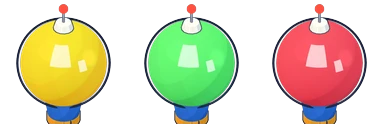
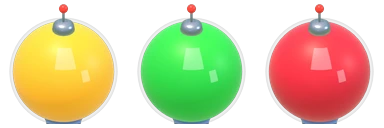
Storage towers rendered as real 3D: PBR metal, clear glass ball that grows each tier, no base plate (patch 198)
Claude-Session: https://claude.ai/code/session_01ENEEn6h54mwwofFLnqS8ZR

diff --git a/features/render3d/tank403/tank3d.html b/features/render3d/tank403/tank3d.html
@@ -1,106 +1,106 @@
 <!doctype html><html><body style="margin:0;background:transparent">
 <canvas id="c" width="320" height="712"></canvas>
 <script type="module">
-// 403: resource storage = "football" water tower (owner's reference photo): a tall blue column with orange
-// bands, flared finned foot, and a faceted ball on top whose round domes show the liquid inside
-// (Ore X gold, Ore Y green, Fluid Z red). The liquid level in the domes and in the sight glass on the
-// column shows how full the storage is. Taller with every tier. Rendered by render-tanks.cjs.
+// 403b: resource storage = "football" water tower (owner's reference photo), rendered as real 3D:
+// physically based painted metal, a clear transmissive glass ball with the liquid inside (Ore X gold,
+// Ore Y green, Fluid Z red), soft reflections from a studio environment and a cast shadow.
+// No separate base plate: the blue finned foot is the footprint. The glass ball grows with every tier.
 import * as T from '../three.js';
 const canvas=document.getElementById('c');
 const R=new T.WebGLRenderer({canvas,antialias:true,alpha:true,preserveDrawingBuffer:true});
 R.setClearColor(0,0);R.outputColorSpace=T.SRGBColorSpace;R.localClippingEnabled=true;
+R.toneMapping=T.NoToneMapping;R.shadowMap.enabled=true;R.shadowMap.type=T.PCFSoftShadowMap;
 const S=new T.Scene();
-const cam=new T.OrthographicCamera(-2.75,2.75,9.6,-2.65,0.1,100);cam.position.set(10,11.17,10);cam.lookAt(0,1.0,0);
-S.add(new T.HemisphereLight(0xfffaf0,0x5a78b0,0.8));
-const sun=new T.DirectionalLight(0xfff2dc,2.6);sun.position.set(-3,10,7);S.add(sun);
-const rim=new T.DirectionalLight(0xa8e6ff,0.9);rim.position.set(7,3,-5);S.add(rim);
-const g=new Uint8Array([70,140,215,255]);const ramp=new T.DataTexture(g,4,1,T.RedFormat);ramp.minFilter=ramp.magFilter=T.NearestFilter;ramp.needsUpdate=true;
-const M=(c,e=0)=>new T.MeshToonMaterial({color:c,gradientMap:ramp,emissive:e});
-const OUT=new T.MeshBasicMaterial({color:0x17213d,side:T.BackSide});
-function mesh(geo,mat,parent,ol=0.04){const m=new T.Mesh(geo,mat);parent.add(m);if(ol){const o=new T.Mesh(geo,OUT);o.scale.setScalar(1+ol);m.add(o);}return m;}
-function lathe(pts,seg=40){return new T.LatheGeometry(pts.map(p=>new T.Vector2(p[0],p[1])),seg);}
-function rbox(w,h,d,r){const s=new T.Shape(),x=-w/2+r,y=-h/2+r;s.moveTo(x,-h/2);s.lineTo(w/2-r,-h/2);s.quadraticCurveTo(w/2,-h/2,w/2,y);s.lineTo(w/2,h/2-r);s.quadraticCurveTo(w/2,h/2,w/2-r,h/2);s.lineTo(x,h/2);s.quadraticCurveTo(-w/2,h/2,-w/2,h/2-r);s.lineTo(-w/2,y);s.quadraticCurveTo(-w/2,-h/2,x,-h/2);
- const dd=Math.max(0.01,d-2*r*0.6);const geo=new T.ExtrudeGeometry(s,{depth:dd,bevelEnabled:true,bevelSize:r*0.6,bevelThickness:r*0.6,bevelSegments:3,curveSegments:6});geo.translate(0,0,-dd/2);geo.computeVertexNormals();return geo;}
-const LIQ={x:{c:0xffc400,hi:0xfff2a0,deep:0xe07a00},y:{c:0x3fdc4a,hi:0xc8ffb0,deep:0x1d9a3a},z:{c:0xf0283a,hi:0xffb0a8,deep:0xa50f22}};
-// tier: column height, ball radius, extras
-const TIERS=[{h:3.6,b:0.8,bands:1,ladder:0,lamp:1,gold:0},{h:4.1,b:0.86,bands:2,ladder:0,lamp:1,gold:0},{h:4.6,b:0.92,bands:2,ladder:1,lamp:1,gold:0},{h:5.1,b:0.98,bands:2,ladder:1,lamp:1,gold:1},{h:5.6,b:1.04,bands:3,ladder:1,lamp:2,gold:1}];
-const PHI=(1+Math.sqrt(5))/2;
-const FACES=[[0,1,PHI],[0,1,-PHI],[0,-1,PHI],[0,-1,-PHI],[1,PHI,0],[1,-PHI,0],[-1,PHI,0],[-1,-PHI,0],[PHI,0,1],[PHI,0,-1],[-PHI,0,1],[-PHI,0,-1]].map(v=>new T.Vector3(...v).normalize());
-const level=new T.Plane(new T.Vector3(0,-1,0),0); // keeps y < level
+const VIEW={l:-2.75,r:2.75,t:9.6,b:-2.65};
+const cam=new T.OrthographicCamera(VIEW.l,VIEW.r,VIEW.t,VIEW.b,0.1,100);cam.position.set(10,11.17,10);cam.lookAt(0,1.0,0);
+// studio environment for reflections: soft sky dome with a few bright panels
+{const env=new T.Scene();const dome=new T.Mesh(new T.SphereGeometry(20,32,16),new T.MeshBasicMaterial({side:T.BackSide,vertexColors:true}));
+ const col=[],pos=dome.geometry.attributes.position;for(let i=0;i<pos.count;i++){const y=pos.getY(i)/20;const c=new T.Color().setHSL(0.58,0.35,0.35+0.45*Math.max(0,y));if(y<0)c.setRGB(0.32,0.42,0.28);col.push(c.r,c.g,c.b);}
+ dome.geometry.setAttribute('color',new T.Float32BufferAttribute(col,3));env.add(dome);
+ for(const [x,y,z,s] of [[-8,10,6,6],[9,6,-6,4],[0,14,0,8],[6,3,9,3]]){const p=new T.Mesh(new T.PlaneGeometry(s,s),new T.MeshBasicMaterial({color:0xffffff,side:T.DoubleSide}));p.position.set(x,y,z);p.lookAt(0,0,0);env.add(p);}
+ const pm=new T.PMREMGenerator(R);S.environment=pm.fromScene(env,0.02).texture;}
+S.add(new T.HemisphereLight(0xfff6e8,0x4a6a3a,0.6));
+const sun=new T.DirectionalLight(0xfff0d6,2.4);sun.position.set(-2,14,3);sun.castShadow=true;sun.shadow.mapSize.set(2048,2048);
+Object.assign(sun.shadow.camera,{left:-4,right:4,top:9,bottom:-4,near:0.5,far:40});sun.shadow.bias=-0.0004;sun.shadow.radius=4;S.add(sun);
+const rim=new T.DirectionalLight(0xbfe8ff,0.8);rim.position.set(7,4,-6);S.add(rim);
+const ground=new T.Mesh(new T.PlaneGeometry(14,14),new T.ShadowMaterial({opacity:0.32}));ground.rotation.x=-Math.PI/2;ground.receiveShadow=true;S.add(ground);
+const paint=(c,r=0.38,m=0.25)=>new T.MeshStandardMaterial({color:c,roughness:r,metalness:m});
+function mesh(geo,mat,parent){const m=new T.Mesh(geo,mat);m.castShadow=true;m.receiveShadow=true;parent.add(m);return m;}
+function lathe(pts,seg=48){return new T.LatheGeometry(pts.map(p=>new T.Vector2(p[0],p[1])),seg);}
+const LIQ={x:{c:0xffb000,e:0xb86a00},y:{c:0x10c02a,e:0x067a16},z:{c:0xe00a22,e:0x8a0010}};
+// tier: column height, glass ball radius (grows a lot), extras
+const TIERS=[{h:3.2,b:0.75,bands:1,ladder:0,gold:0,ant:0},{h:3.5,b:0.9,bands:2,ladder:0,gold:0,ant:0},{h:3.8,b:1.05,bands:2,ladder:1,gold:0,ant:0},{h:4.1,b:1.2,bands:2,ladder:1,gold:1,ant:1},{h:4.4,b:1.35,bands:3,ladder:1,gold:1,ant:2}];
+const level=new T.Plane(new T.Vector3(0,-1,0),0);
 let state=null;
 function build(kind,t){
  const P=TIERS[t],L=LIQ[kind];if(state)S.remove(state.root);
- const WHITE=M(0xf4f4f1),BLUE=M(0x2a6fe0),NAVY=M(0x1f3270),ORANGE=M(0xf59a1c),STEEL=M(0x8d97a8),GOLD=M(0xf2c75e),BAND=P.gold?GOLD:ORANGE;
- const LQ=new T.MeshToonMaterial({color:L.c,gradientMap:ramp,emissive:L.deep,emissiveIntensity:0.75,clippingPlanes:[level]});
- const EMPTY=new T.MeshPhongMaterial({color:0xcfe6f7,shininess:90,specular:0xffffff,emissive:0x2b4568,emissiveIntensity:0.35});
- const SHINE=new T.MeshBasicMaterial({color:0xffffff,transparent:true,opacity:0.7});
+ const BLUE=paint(0x1f63d8,0.32,0.3),BLUE2=paint(0x1850b8,0.4,0.3),ORANGE=paint(0xf5911c,0.35,0.2),STEEL=paint(0xb9c2cf,0.25,0.85),GOLD=paint(0xf3c35a,0.22,0.9),BAND=P.gold?GOLD:ORANGE;
+ const LQ=new T.MeshPhysicalMaterial({color:L.c,roughness:0.45,metalness:0,emissive:L.e,emissiveIntensity:0.9,envMapIntensity:0.12,clearcoat:0,clippingPlanes:[level]});
+ const GLASS=new T.MeshPhysicalMaterial({color:0xf2fbff,roughness:0.02,metalness:0,clearcoat:1,clearcoatRoughness:0.02,specularIntensity:1,envMapIntensity:2.5,transparent:true,opacity:0.07,depthWrite:false});
  const root=new T.Group();S.add(root);
- // octagonal NOVA base like the other storages
- const base=new T.Group();root.add(base);
- mesh(lathe([[0,0],[1.55,0],[1.59,0.1],[1.51,0.28],[0,0.28]],8),NAVY,base,0.02).rotation.y=Math.PI/8;
- mesh(lathe([[0,0.25],[1.42,0.25],[1.44,0.31],[1.36,0.35],[0,0.35]],8),WHITE,base,0.02).rotation.y=Math.PI/8;
- for(let i=0;i<8;i++){const a=i/8*Math.PI*2+Math.PI/4;const c=mesh(rbox(0.28,0.24,0.24,0.06),i%2?ORANGE:BLUE,base,0.06);c.position.set(Math.cos(a)*1.42,0.17,Math.sin(a)*1.42);c.rotation.y=-a;}
- const tower=new T.Group();root.add(tower);
- const y0=0.35,H=P.h,rc=0.3,top=y0+H;
- // flared foot with fins (photo: wide skirt and triangular gussets)
- mesh(lathe([[0,y0],[0.72,y0],[0.68,y0+0.1],[0.45,y0+0.4],[rc+0.03,y0+0.95],[0,y0+0.95]]),BLUE,tower,0.025);
- for(let i=0;i<6;i++){const a=i/6*Math.PI*2+0.3;const fin=new T.Shape();fin.moveTo(0,0);fin.lineTo(0.62,0);fin.lineTo(0,0.85);fin.closePath();
-  const geo=new T.ExtrudeGeometry(fin,{depth:0.07,bevelEnabled:false});geo.translate(0,0,-0.035);const f=mesh(geo,BLUE,tower,0.05);f.position.set(Math.cos(a)*(rc-0.02),y0,Math.sin(a)*(rc-0.02));f.rotation.y=-a;}
- // manhole and control box at the foot
- const mh=mesh(new T.CylinderGeometry(0.2,0.2,0.08,20),BLUE,tower,0.08);mh.position.set(0.42,y0+0.36,0.42);mh.lookAt(5,y0+0.36,5);mh.rotateX(Math.PI/2);
- const box=mesh(rbox(0.22,0.3,0.12,0.03),STEEL,tower,0.08);box.position.set(rc+0.08,y0+1.0,-0.15);box.rotation.y=0.6;
- // shaft
- mesh(new T.CylinderGeometry(rc*0.9,rc,H,28),BLUE,tower,0.03).position.y=y0+H/2;
- const bandYs=[y0+0.95,top-0.55,y0+H*0.55].slice(0,P.bands);
- for(const by of bandYs){const b=mesh(new T.CylinderGeometry(rc+0.03,rc+0.03,0.16,28),BAND,tower,0.06);b.position.y=by;}
- // sight glass on the column: liquid level
- const gx=new T.Group();gx.position.set(Math.cos(0.55)*(rc+0.06),0,Math.sin(0.55)*(rc+0.06));tower.add(gx);
- const gy0=y0+1.15,gh=H-1.8;
- mesh(new T.CylinderGeometry(0.07,0.07,gh+0.1,10),WHITE,gx,0.1).position.y=gy0+gh/2;
- const gEmpty=new T.Mesh(new T.CylinderGeometry(0.05,0.05,gh,10),EMPTY);gEmpty.position.set(0.012,gy0+gh/2,0.012);gx.add(gEmpty);
- const gLiq=new T.Mesh(new T.CylinderGeometry(0.052,0.052,1,10),new T.MeshToonMaterial({color:L.c,gradientMap:ramp,emissive:L.deep,emissiveIntensity:0.75}));gLiq.position.x=0.012;gLiq.position.z=0.012;gx.add(gLiq);
- if(P.ladder){const lz=new T.Group();lz.position.set(-Math.cos(0.4)*(rc+0.1),0,-Math.sin(0.4)*(rc+0.1));lz.rotation.y=0.4;tower.add(lz);
-  for(const s of [-0.09,0.09])mesh(new T.CylinderGeometry(0.02,0.02,H-1.2,6),STEEL,lz,0.15).position.set(0,y0+0.9+(H-1.2)/2,s);
-  for(let k=0;k<Math.floor((H-1.2)/0.22);k++){const rung=mesh(new T.CylinderGeometry(0.015,0.015,0.18,6),STEEL,lz,0);rung.position.set(0,y0+1.0+k*0.22,0);rung.rotation.x=Math.PI/2;}}
- // neck flaring into the ball
- const bc=top+P.b*0.82; // ball centre
- mesh(lathe([[0,top-0.6],[rc,top-0.6],[rc+0.06,top-0.25],[P.b*0.42,top+0.02],[P.b*0.36,top+0.1],[0,top+0.1]]),BLUE,tower,0.025);
- // clear glass ball on top; the coloured liquid inside shows how full the storage is
- const ball=new T.Group();ball.position.y=bc;tower.add(ball);
- const GLASS=new T.MeshPhongMaterial({color:0xe8f6ff,transparent:true,opacity:0.2,shininess:140,specular:0xffffff,depthWrite:false});
- const lr=P.b*0.95;
- const liq=new T.Mesh(new T.SphereGeometry(lr,40,28),LQ);ball.add(liq);
- const surf=new T.Mesh(new T.CircleGeometry(1,40),new T.MeshBasicMaterial({color:L.hi}));surf.rotation.x=-Math.PI/2;ball.add(surf);
- const glass=new T.Mesh(new T.SphereGeometry(P.b,40,28),GLASS);glass.renderOrder=2;ball.add(glass);
- // outline only around the silhouette (a solid back-face outline would darken the clear glass)
- const rimO=new T.Mesh(new T.TorusGeometry(P.b*1.01,0.025,8,64),new T.MeshBasicMaterial({color:0x17213d}));rimO.lookAt(cam.position.clone().sub(new T.Vector3(0,bc,0)));ball.add(rimO);
- // glossy highlights on the glass
- const hl=new T.Mesh(new T.SphereGeometry(P.b*1.002,24,16,2.0,0.55,0.55,0.5),SHINE);hl.renderOrder=3;ball.add(hl);
- const hl2=new T.Mesh(new T.SphereGeometry(P.b*1.002,16,10,2.75,0.2,0.95,0.25),SHINE);hl2.renderOrder=3;ball.add(hl2);
- // top hatch, lamp, ring
+ const y0=0,H=P.h,rc=0.3,top=y0+H;
+ // flared finned foot = the whole footprint (sized like the blue skirt only)
+ mesh(lathe([[0,y0],[0.82,y0],[0.84,y0+0.06],[0.78,y0+0.14],[0.5,y0+0.45],[rc+0.03,y0+1.0],[0,y0+1.0]]),BLUE,root);
+ const ring0=mesh(new T.TorusGeometry(0.8,0.05,12,48),BAND,root);ring0.rotation.x=Math.PI/2;ring0.position.y=y0+0.09;
+ for(let i=0;i<6;i++){const a=i/6*Math.PI*2+0.3;const fin=new T.Shape();fin.moveTo(0,0);fin.lineTo(0.7,0);fin.quadraticCurveTo(0.25,0.25,0,0.95);fin.closePath();
+  const geo=new T.ExtrudeGeometry(fin,{depth:0.07,bevelEnabled:true,bevelSize:0.015,bevelThickness:0.015,bevelSegments:2});geo.translate(0,0,-0.035);const f=mesh(geo,BLUE2,root);f.position.set(Math.cos(a)*(rc-0.02),y0,Math.sin(a)*(rc-0.02));f.rotation.y=-a;}
+ for(let i=0;i<12;i++){const a=i/12*Math.PI*2;mesh(new T.CylinderGeometry(0.035,0.035,0.05,8),STEEL,root).position.set(Math.cos(a)*0.72,y0+0.16,Math.sin(a)*0.72);}
+ const mh=mesh(new T.CylinderGeometry(0.2,0.2,0.07,24),BLUE2,root);mh.position.set(0.36,y0+0.42,0.36);mh.lookAt(5,y0+0.42,5);mh.rotateX(Math.PI/2);
+ const bx=mesh(new T.BoxGeometry(0.22,0.3,0.12),STEEL,root);bx.position.set(rc+0.07,y0+1.25,-0.18);bx.rotation.y=0.6;
+ // column
+ mesh(new T.CylinderGeometry(rc*0.9,rc,H,40),BLUE,root).position.y=y0+H/2;
+ for(const by of [y0+1.1,top-0.55,y0+H*0.58].slice(0,P.bands)){const b=mesh(new T.CylinderGeometry(rc+0.025,rc+0.025,0.16,40),BAND,root);b.position.y=by;}
+ // sight glass
+ const gx=new T.Group();gx.position.set(Math.cos(0.55)*(rc+0.05),0,Math.sin(0.55)*(rc+0.05));root.add(gx);
+ const gy0=y0+1.3,gh=H-1.95;
+ mesh(new T.CylinderGeometry(0.065,0.065,gh+0.1,12),STEEL,gx).position.y=gy0+gh/2;
+ const gLiq=mesh(new T.CylinderGeometry(0.05,0.05,1,12),new T.MeshStandardMaterial({color:L.c,emissive:L.e,emissiveIntensity:0.6,roughness:0.2}),gx);gLiq.position.set(0.02,0,0.02);
+ if(P.ladder){const lz=new T.Group();lz.position.set(-Math.cos(0.4)*(rc+0.09),0,-Math.sin(0.4)*(rc+0.09));lz.rotation.y=0.4;root.add(lz);
+  for(const s of [-0.09,0.09])mesh(new T.CylinderGeometry(0.018,0.018,H-1.3,8),STEEL,lz).position.set(0,y0+1.0+(H-1.3)/2,s);
+  for(let k=0;k<Math.floor((H-1.3)/0.22);k++){const rung=mesh(new T.CylinderGeometry(0.014,0.014,0.18,6),STEEL,lz);rung.position.set(0,y0+1.1+k*0.22,0);rung.rotation.x=Math.PI/2;}}
+ // collar cup holding the ball
+ const bc=top+P.b*0.9;
+ mesh(lathe([[0,top-0.5],[rc,top-0.5],[rc+0.05,top-0.2],[P.b*0.42,top+0.06],[P.b*0.4,top+0.14],[P.b*0.3,top+0.14],[0,top+0.1]]),BLUE,root);
+ const cr=mesh(new T.TorusGeometry(P.b*0.41,0.04,10,40),BAND,root);cr.rotation.x=Math.PI/2;cr.position.y=top+0.1;
+ // glass ball + liquid
+ const ball=new T.Group();ball.position.y=bc;root.add(ball);
+ const lr=P.b*0.94;
+ const liq=new T.Mesh(new T.SphereGeometry(lr,56,40),LQ);ball.add(liq);
+ const cap=new T.Mesh(new T.CircleGeometry(1,48),new T.MeshPhysicalMaterial({color:L.c,emissive:L.e,emissiveIntensity:1.0,roughness:0.45,envMapIntensity:0.12}));cap.rotation.x=-Math.PI/2;ball.add(cap);
+ const glass=new T.Mesh(new T.SphereGeometry(P.b,64,48),GLASS);glass.renderOrder=2;ball.add(glass);
+ // glass edge (fresnel rim) and window highlights so the clear ball reads even when empty
+ const rimMat=new T.ShaderMaterial({transparent:true,depthWrite:false,uniforms:{},vertexShader:'varying vec3 n;varying vec3 v;void main(){vec4 mv=modelViewMatrix*vec4(position,1.0);n=normalize(normalMatrix*normal);v=normalize(-mv.xyz);gl_Position=projectionMatrix*mv;}',
+  fragmentShader:'varying vec3 n;varying vec3 v;void main(){float f=pow(1.0-abs(dot(normalize(n),vec3(0.0,0.0,1.0))),2.6);gl_FragColor=vec4(vec3(0.9,0.97,1.0),clamp(f*0.5,0.0,0.5));}'});
+ const rimS=new T.Mesh(new T.SphereGeometry(P.b*1.005,64,48),rimMat);rimS.renderOrder=3;ball.add(rimS);
+ const hiMat=new T.MeshBasicMaterial({color:0xffffff,transparent:true,opacity:0.38,depthWrite:false});
+ const hi1=new T.Mesh(new T.SphereGeometry(P.b*1.01,32,16,2.15,0.5,0.5,0.42),hiMat);hi1.renderOrder=4;ball.add(hi1);
+ const hi2=new T.Mesh(new T.SphereGeometry(P.b*1.01,16,8,2.75,0.16,0.98,0.22),hiMat);hi2.renderOrder=4;ball.add(hi2);
+ const back=new T.Mesh(new T.SphereGeometry(P.b,64,48),new T.MeshPhysicalMaterial({color:0xdff3ff,roughness:0.05,transparent:true,opacity:0.05,side:T.BackSide,depthWrite:false}));back.renderOrder=1;ball.add(back);
+ // top fitting, warning lamp, antennas
  const ttop=bc+P.b;
- mesh(new T.CylinderGeometry(0.16,0.2,0.14,14),WHITE,tower,0.08).position.y=ttop+0.02;
- if(P.lamp){const lamp=new T.Mesh(new T.SphereGeometry(0.1,12,10),new T.MeshBasicMaterial({color:0xff5040}));lamp.position.y=ttop+0.42;tower.add(lamp);mesh(new T.CylinderGeometry(0.025,0.025,0.32,6),STEEL,tower,0.15).position.y=ttop+0.22;}
- if(P.lamp>1)for(const s of [-1,1]){const ant=mesh(new T.CylinderGeometry(0.02,0.02,0.5,6),GOLD,tower,0.15);ant.position.set(s*0.22,ttop+0.2,-s*0.1);const tip=new T.Mesh(new T.SphereGeometry(0.06,10,8),new T.MeshBasicMaterial({color:0x7fe8ff}));tip.position.set(s*0.22,ttop+0.47,-s*0.1);tower.add(tip);}
- // wreck: snapped column and smashed ball on the base
+ mesh(lathe([[0,ttop-0.04],[0.22,ttop-0.04],[0.2,ttop+0.08],[0.12,ttop+0.14],[0,ttop+0.15]]),STEEL,root);
+ mesh(new T.CylinderGeometry(0.025,0.025,0.3,8),STEEL,root).position.y=ttop+0.28;
+ const lamp=new T.Mesh(new T.SphereGeometry(0.09,16,12),new T.MeshStandardMaterial({color:0xff3a2a,emissive:0x8a0a00,roughness:0.2}));lamp.position.y=ttop+0.46;root.add(lamp);
+ for(let k=0;k<P.ant;k++){const s=k?-1:1;mesh(new T.CylinderGeometry(0.018,0.018,0.5,6),GOLD,root).position.set(s*0.2,ttop+0.25,-s*0.1);const tip=new T.Mesh(new T.SphereGeometry(0.05,10,8),new T.MeshBasicMaterial({color:0x7fe8ff}));tip.position.set(s*0.2,ttop+0.52,-s*0.1);root.add(tip);}
+ // wreck
  const wreck=new T.Group();root.add(wreck);
- mesh(lathe([[0,y0],[0.95,y0],[0.55,y0+0.35],[rc+0.04,y0+0.85],[rc,y0+1.1],[0,y0+1.0]]),M(0x5b7fc0),wreck,0.025);
- const fallen=mesh(new T.CylinderGeometry(rc,rc,1.6,20),M(0x5b7fc0),wreck,0.03);fallen.rotation.z=Math.PI/2;fallen.rotation.y=0.7;fallen.position.set(0.25,y0+0.3,-0.55);
- const smash=mesh(new T.DodecahedronGeometry(0.6,0),M(0x5b7fc0),wreck,0.04);smash.position.set(-0.75,y0+0.45,0.45);smash.rotation.set(0.4,0.3,0.9);smash.scale.y=0.7;
- const puddle=new T.Mesh(new T.CircleGeometry(1.0,24),new T.MeshBasicMaterial({color:L.deep,transparent:true,opacity:0.8}));puddle.rotation.x=-Math.PI/2;puddle.position.set(-0.3,y0+0.01,0.2);wreck.add(puddle);
- state={root,tower,wreck,kind,t,bc,b:P.b,lr,surf,gLiq,gy0,gh,lampY:ttop+0.42};
+ mesh(lathe([[0,y0],[0.82,y0],[0.78,y0+0.14],[0.5,y0+0.45],[rc+0.03,y0+1.0],[rc,y0+1.25],[0,y0+1.15]]),paint(0x4a6aa8,0.6,0.2),wreck);
+ const fallen=mesh(new T.CylinderGeometry(rc,rc,1.8,24),paint(0x4a6aa8,0.6,0.2),wreck);fallen.rotation.z=Math.PI/2;fallen.rotation.y=0.7;fallen.position.set(0.4,0.3,-0.7);
+ for(let i=0;i<9;i++){const a=i*0.9,r=0.5+(i%3)*0.25;const sh=mesh(new T.TetrahedronGeometry(0.12+(i%3)*0.05),new T.MeshPhysicalMaterial({color:0xe8f6ff,roughness:0.05,clearcoat:1,transparent:true,opacity:0.6}),wreck);sh.position.set(Math.cos(a)*r,0.08,Math.sin(a)*r);sh.rotation.set(i,i*2,i*3);}
+ const pud=new T.Mesh(new T.CircleGeometry(0.9,32),new T.MeshPhysicalMaterial({color:L.c,emissive:L.e,emissiveIntensity:0.4,roughness:0.05,clearcoat:1,transparent:true,opacity:0.85}));pud.rotation.x=-Math.PI/2;pud.position.set(-0.4,0.01,0.3);wreck.add(pud);
+ const tower=root.children.filter(c=>c!==wreck);
+ state={root,tower,wreck,kind,t,bc,lr,cap,liq,gLiq,gy0,gh,lampY:ttop+0.46};
 }
 window.pose=(kind,t,fill,wreckd)=>{
  if(!state||state.kind!==kind||state.t!==t)build(kind,t);
  const st=state,f=Math.max(0,Math.min(1,fill));
- st.tower.visible=!wreckd;st.wreck.visible=!!wreckd;
- const ly=-st.lr+f*2*st.lr; // liquid surface height inside the ball (ball-local)
- level.constant=f<=0.001?-99:st.bc+ly;
- st.surf.visible=f>0.01&&f<0.995;const sr=Math.sqrt(Math.max(0,st.lr*st.lr-ly*ly));st.surf.scale.set(sr,sr,1);st.surf.position.y=ly;
+ st.tower.forEach(c=>c.visible=!wreckd);st.wreck.visible=!!wreckd;
+ const ly=-st.lr+f*2*st.lr;level.constant=f<=0.001?-99:st.bc+ly;st.liq.visible=f>0.001;
+ st.cap.visible=f>0.01&&f<0.995;const sr=Math.sqrt(Math.max(0,st.lr*st.lr-ly*ly));st.cap.scale.set(sr,sr,1);st.cap.position.y=ly;
  const h=Math.max(0.001,f*st.gh);st.gLiq.visible=f>0.01;st.gLiq.scale.y=h;st.gLiq.position.y=st.gy0+h/2;
- R.render(S,cam);const v=new T.Vector3(0,st.lampY,0).project(cam);
- return {img:canvas.toDataURL('image/png'),lx:(v.x+1)/2,ly:(1-v.y)/2}; // aircraft warning lamp, as a fraction of the frame
+ R.render(S,cam);const v=new T.Vector3(0,st.lampY,0).project(cam),o=new T.Vector3(0,0,0).project(cam);
+ return {img:canvas.toDataURL('image/png'),lx:(v.x+1)/2,ly:(1-v.y)/2,ox:(o.x+1)/2,oy:(1-o.y)/2};
 };
-window.setRes=(w,h)=>R.setSize(w,h,false); // icons render larger
+window.setRes=(w,h)=>R.setSize(w,h,false);
 window.ready=true;
 </script></body></html>

diff --git a/features/loot403/loot403.js b/features/loot403/loot403.js
@@ -17,15 +17,17 @@ function tankFill403(b){
   return .7;}
  return storeFill403(KIND403[TANK403[b.type]]);
 }
+// one world unit of the 3D model = 0.335 x the building size, the same for every tier (the ball grows, the foot does not)
+function tankK403(size){return size*.335/tankMeta403.unit;}
 function drawTank403(b,p,size,col){
- var m=tankMeta403,t=tankTier403(b),tm=m.tiers[t],row=TANK403[b.type]*m.tiers.length+t,k=size*.95/tm.width;
- ctx.drawImage(tankArt403,col*m.cw,row*m.ch,m.cw,m.ch,p.x-tm.ax*k,p.y+size*.12-tm.ay*k,m.cw*k,m.ch*k);
+ var m=tankMeta403,t=tankTier403(b),tm=m.tiers[t],row=TANK403[b.type]*m.tiers.length+t,k=tankK403(size);
+ ctx.drawImage(tankArt403,col*m.cw,row*m.ch,m.cw,m.ch,p.x-tm.ax*k,p.y+size*.06-tm.ay*k,m.cw*k,m.ch*k);
 }
 // Aircraft warning lamp on top of every tower: blinks red (0.6 s on / 0.6 s off), each tower slightly out of step.
 var lampSeen403=0;
 function tankLamp403(b,p,size){
  var m=tankMeta403,t=tankTier403(b),tm=m.tiers[t],L=tm.lamp;if(!L)return;lampSeen403=Date.now();
- var k=size*.95/tm.width,x=p.x+(L[0]-tm.ax)*k,y=p.y+size*.12+(L[1]-tm.ay)*k,ph=((Date.now()+(b.x*37+b.y*53)*29)%1200)/1200;
+ var k=tankK403(size),x=p.x+(L[0]-tm.ax)*k,y=p.y+size*.06+(L[1]-tm.ay)*k,ph=((Date.now()+(b.x*37+b.y*53)*29)%1200)/1200;
  if(ph>.5)return;var a=Math.sin(ph/.5*Math.PI),r=size*.11;
  ctx.save();var g=ctx.createRadialGradient(x,y,0,x,y,r);g.addColorStop(0,'rgba(255,255,235,'+a+')');g.addColorStop(.25,'rgba(255,70,50,'+(.95*a)+')');g.addColorStop(1,'rgba(255,40,30,0)');
  ctx.fillStyle=g;ctx.beginPath();ctx.arc(x,y,r,0,7);ctx.fill();ctx.restore();
